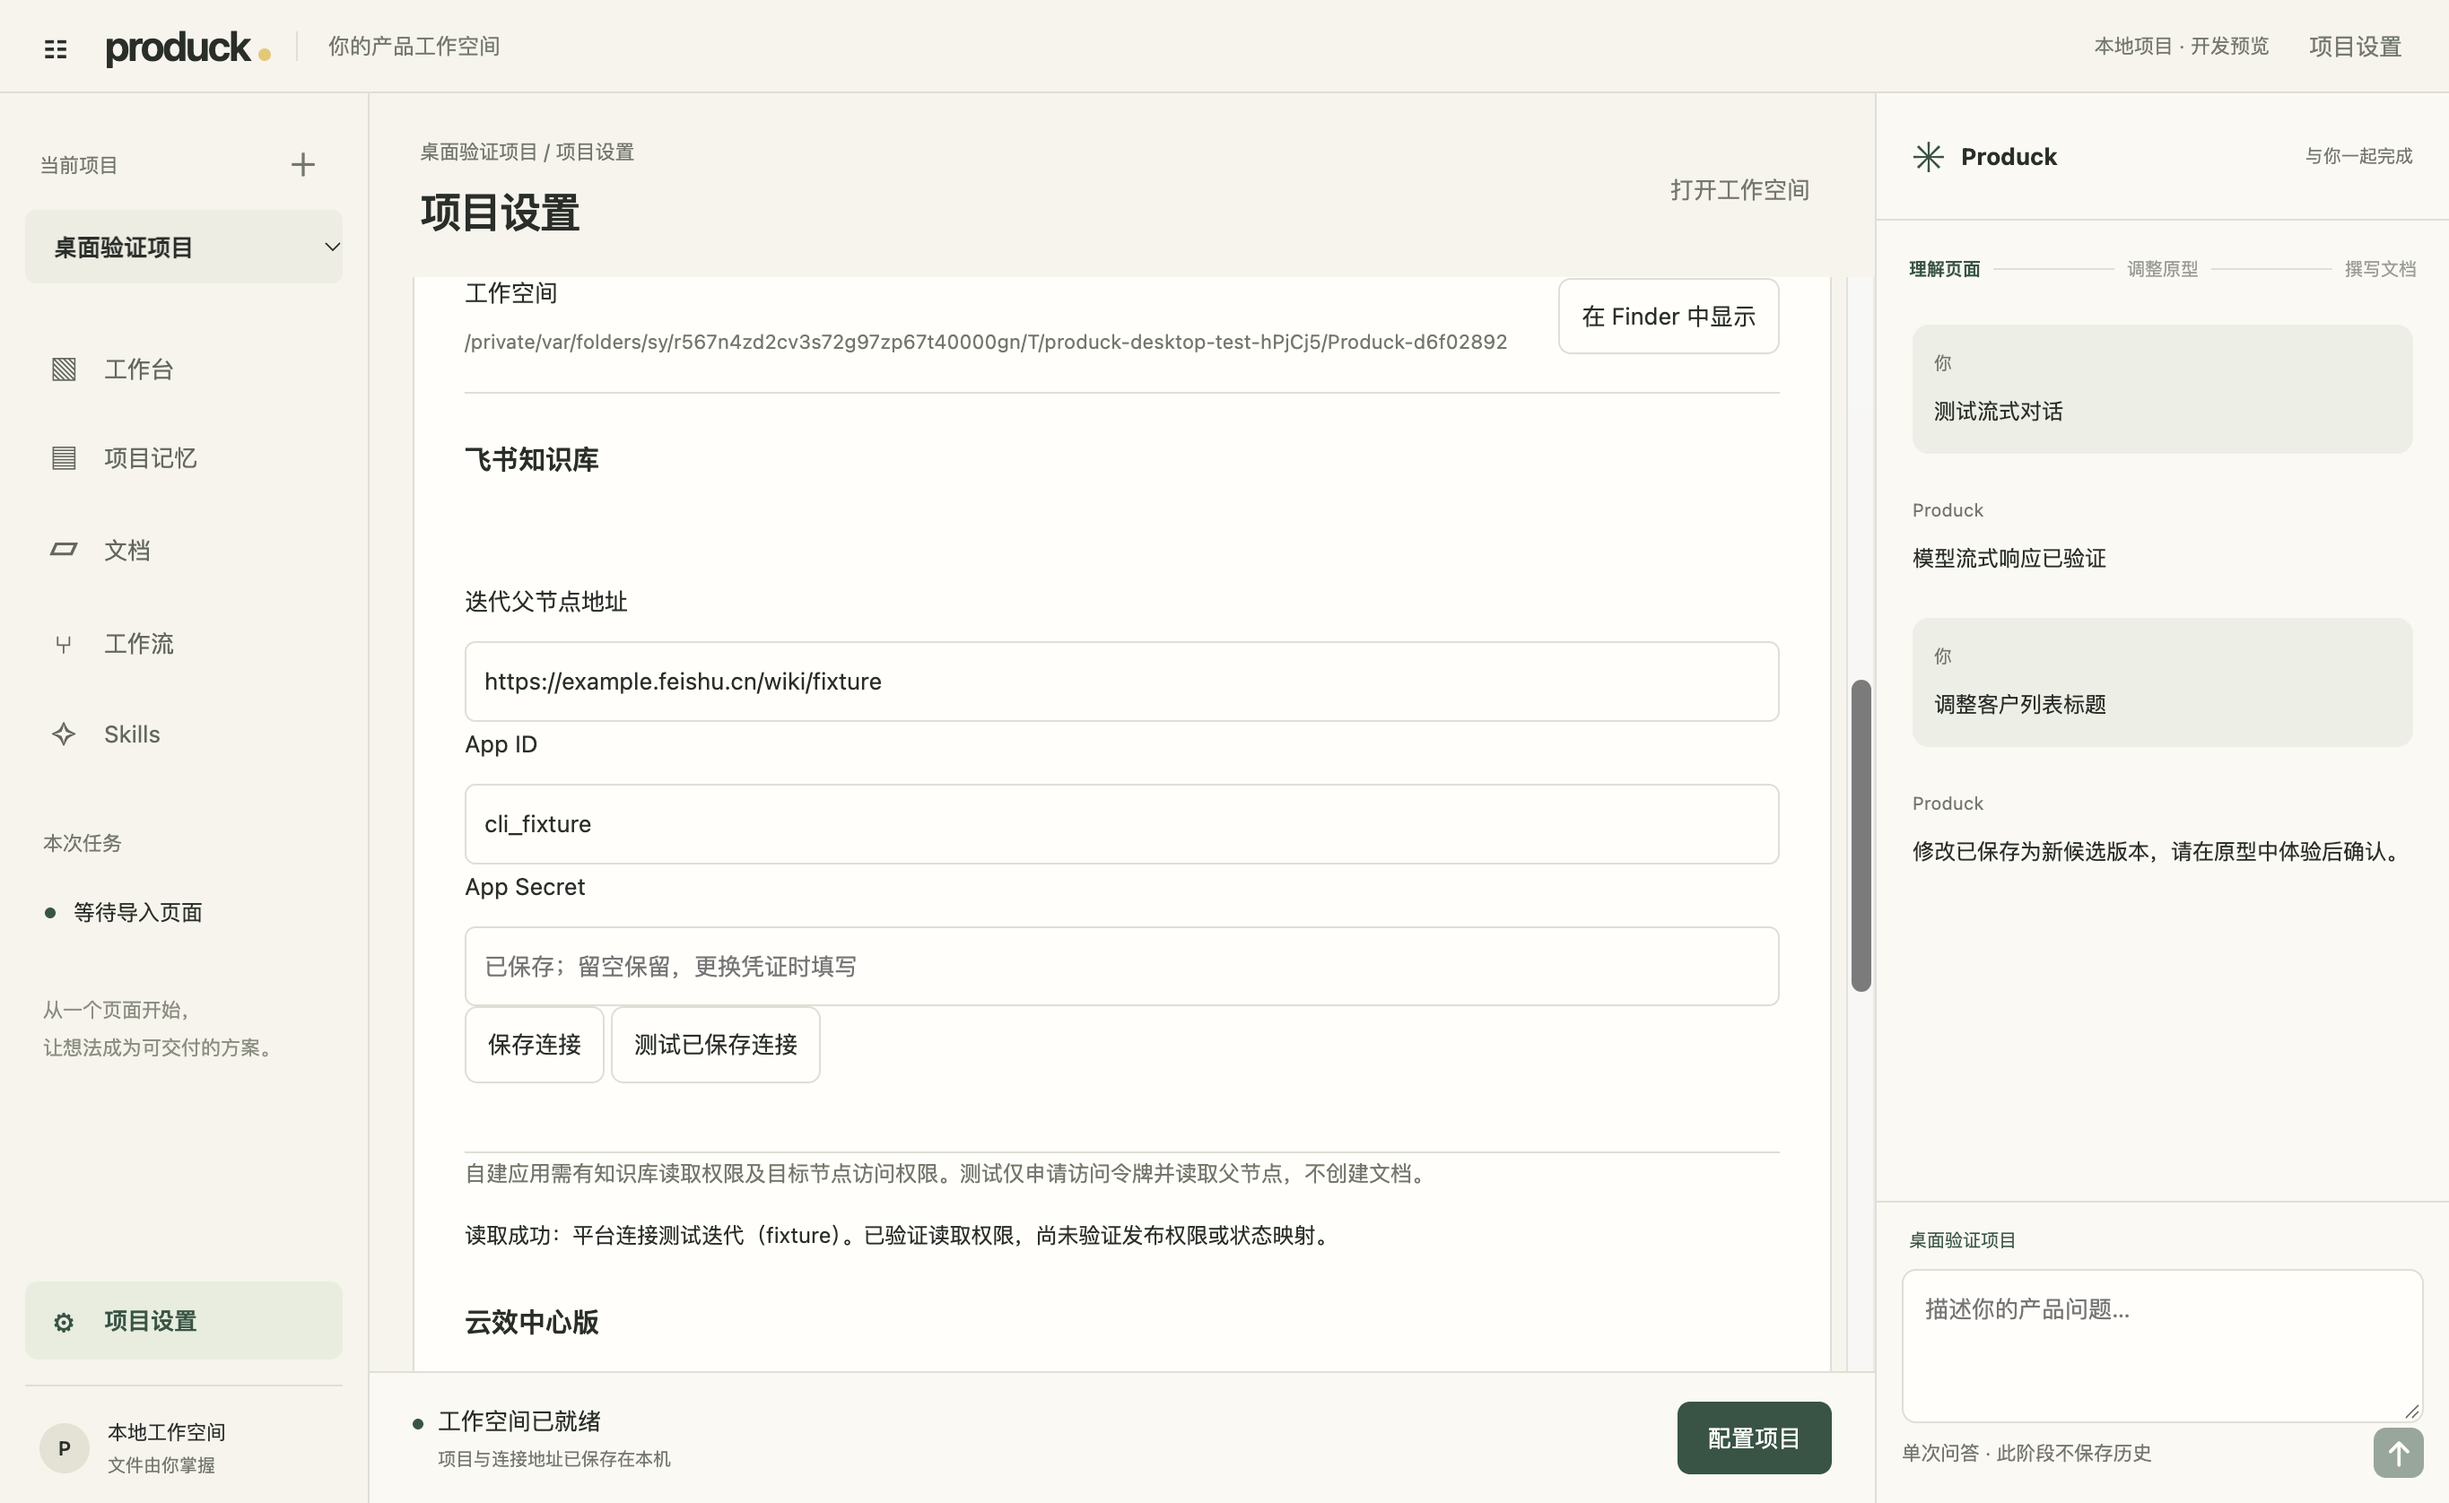
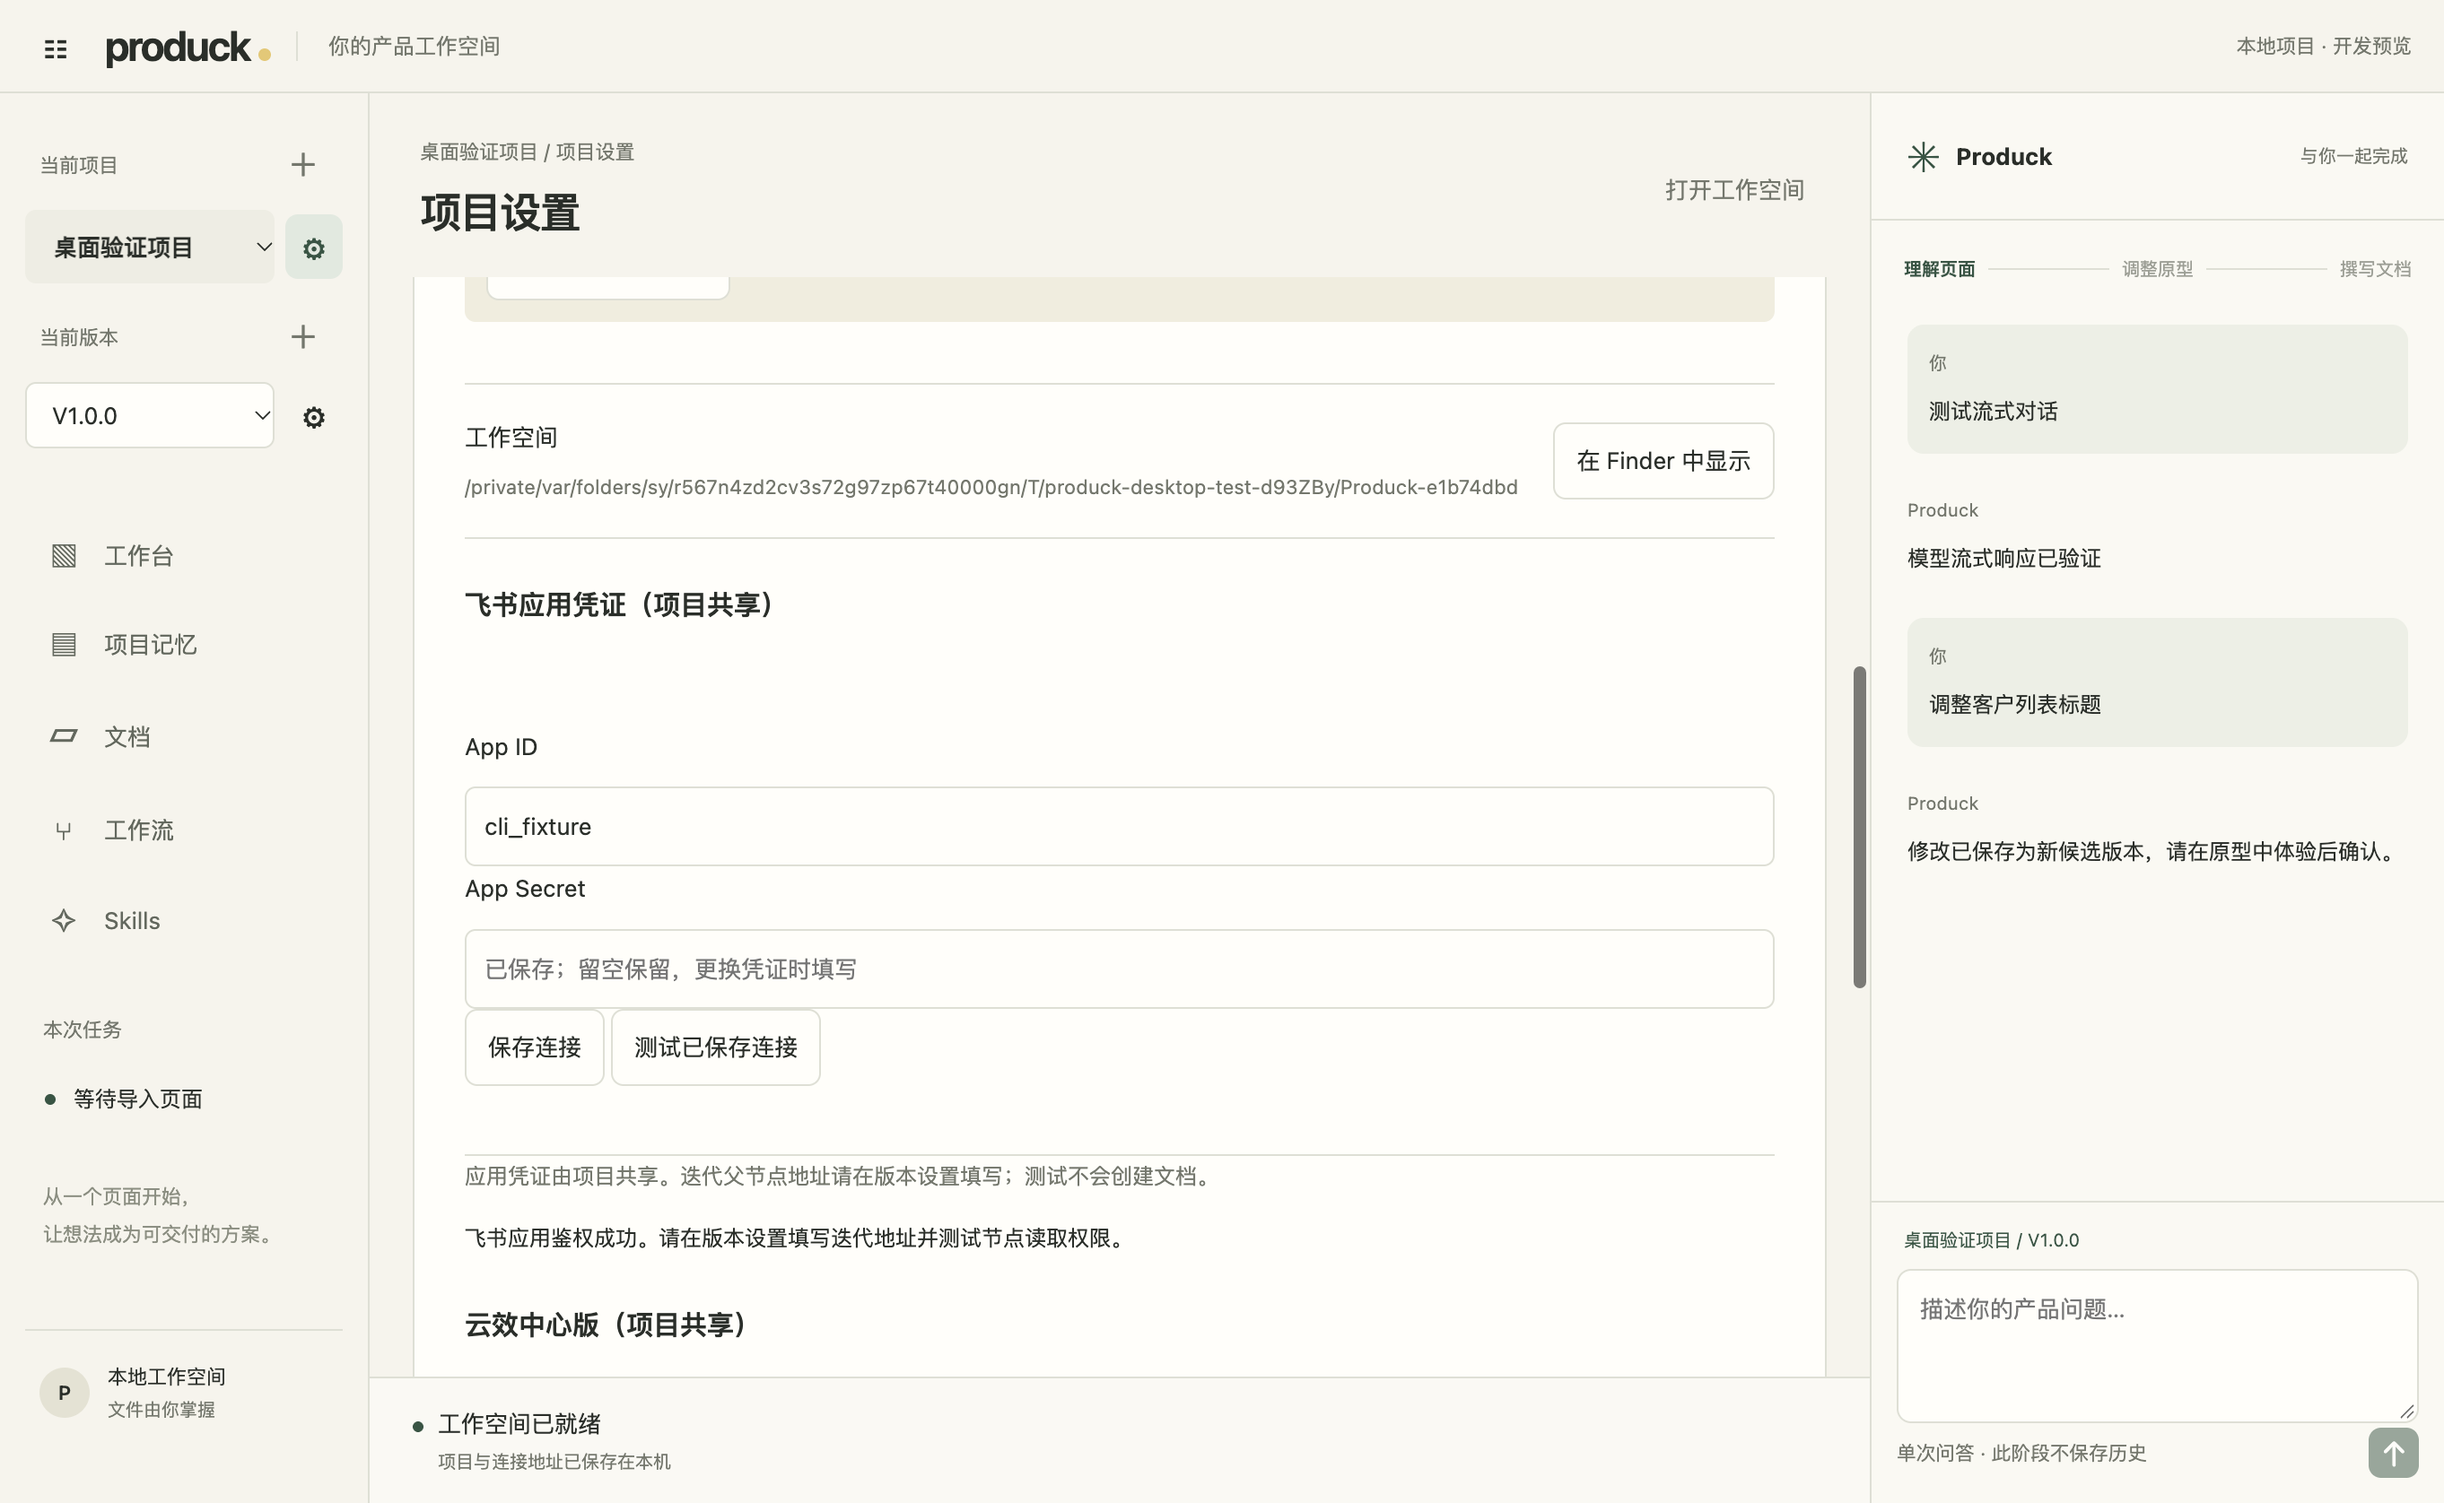
fix: place scoped settings beside project and release selectors

diff --git a/src/ui/App.tsx b/src/ui/App.tsx
@@ -133,13 +133,6 @@ export function App() {
         </strong>
         <span className="title-path">你的产品工作空间</span>
         <span className="demo-badge">本地项目 · 开发预览</span>
-        <button
-          className="quiet"
-          disabled={!project}
-          onClick={() => setView("settings")}
-        >
-          项目设置
-        </button>
       </header>
       <aside className="sidebar">
         <div className="project-label">
@@ -152,20 +145,32 @@ export function App() {
             ＋
           </button>
         </div>
-        <select
-          aria-label="切换项目"
-          id="project-select"
-          value={state.activeProjectId ?? ""}
-          disabled={loading || switching || !project}
-          onChange={(e) => void select(e.target.value)}
-        >
-          {!project && <option value="">还没有项目</option>}
-          {state.projects.map((p) => (
-            <option key={p.id} value={p.id}>
-              {p.name}
-            </option>
-          ))}
-        </select>
+        <div className="scope-selector">
+          <select
+            aria-label="切换项目"
+            id="project-select"
+            value={state.activeProjectId ?? ""}
+            disabled={loading || switching || !project}
+            onChange={(e) => void select(e.target.value)}
+          >
+            {!project && <option value="">还没有项目</option>}
+            {state.projects.map((p) => (
+              <option key={p.id} value={p.id}>
+                {p.name}
+              </option>
+            ))}
+          </select>
+          <button
+            className="icon scope-settings"
+            aria-label="项目设置"
+            title="项目设置：模型、工作空间、飞书凭证与云效"
+            aria-pressed={view === "settings"}
+            disabled={!project || switching}
+            onClick={() => setView("settings")}
+          >
+            ⚙
+          </button>
+        </div>
         {project && (
           <>
             <div className="project-label">
@@ -178,26 +183,31 @@ export function App() {
                 ＋
               </button>
             </div>
-            <select
-              aria-label="切换版本"
-              value={release?.id ?? ""}
-              disabled={switching}
-              onChange={(e) => void selectRelease(e.target.value)}
-            >
-              {!release && <option value="">请创建版本</option>}
-              {state.releases.map((r) => (
-                <option key={r.id} value={r.id}>
-                  {r.name}
-                </option>
-              ))}
-            </select>
-            <button
-              className="nav"
-              disabled={!release}
-              onClick={() => setView("release-settings")}
-            >
-              版本设置
-            </button>
+            <div className="scope-selector">
+              <select
+                aria-label="切换版本"
+                value={release?.id ?? ""}
+                disabled={switching}
+                onChange={(e) => void selectRelease(e.target.value)}
+              >
+                {!release && <option value="">请创建版本</option>}
+                {state.releases.map((r) => (
+                  <option key={r.id} value={r.id}>
+                    {r.name}
+                  </option>
+                ))}
+              </select>
+              <button
+                className="icon scope-settings"
+                aria-label="版本设置"
+                title="版本设置：版本名称、飞书迭代地址与原型起点"
+                aria-pressed={view === "release-settings"}
+                disabled={!release || switching}
+                onClick={() => setView("release-settings")}
+              >
+                ⚙
+              </button>
+            </div>
           </>
         )}
         <nav>
@@ -222,12 +232,6 @@ export function App() {
           <br />
           让想法成为可交付的方案。
         </div>
-        <button
-          className={`nav bottom ${view === "settings" ? "active" : ""}`}
-          onClick={() => setView("settings")}
-        >
-          <span>⚙</span>项目设置
-        </button>
         <div className="profile">
           <span className="avatar">P</span>
           <div>
@@ -239,7 +243,8 @@ export function App() {
         <section className="work-heading">
           <div>
             <div className="breadcrumb">
-              {project?.name ?? "Produck"} / {release?.name ?? "尚无版本"} /{" "}
+              {project?.name ?? "Produck"} /{" "}
+              {view !== "settings" && `${release?.name ?? "尚无版本"} / `}
               {view === "workbench" ? "工作台" : title}
             </div>
             <h1>{title}</h1>
@@ -333,12 +338,11 @@ export function App() {
                 : "选择一个文件夹，开始新的项目"}
             </small>
           </div>
-          <button
-            className="primary"
-            onClick={() => (project ? setView("settings") : setCreating(true))}
-          >
-            {project ? "配置项目" : "创建项目"}
-          </button>
+          {!project && (
+            <button className="primary" onClick={() => setCreating(true)}>
+              创建项目
+            </button>
+          )}
         </footer>
       </main>
       <AgentPanel

diff --git a/src/ui/components/ReleaseSettings.tsx b/src/ui/components/ReleaseSettings.tsx
@@ -51,7 +51,7 @@ export function ReleaseSettings({
   }
   return (
     <article className="paper release-settings">
-      <h2>版本设置</h2>
+      <h2>{release.name} · 版本设置</h2>
       <p className="muted">
         原型、文档、审批与交付记录归属于此版本。模型、工作空间与平台凭证沿用项目配置。
       </p>
@@ -76,7 +76,7 @@ export function ReleaseSettings({
           />
         </label>
         <label>
-          飞书迭代父节点地址
+          飞书迭代地址（当前版本）
           <input
             aria-label="飞书迭代父节点地址"
             type="url"

diff --git a/src/ui/components/ProjectSettings.tsx b/src/ui/components/ProjectSettings.tsx
@@ -7,7 +7,10 @@ export function ProjectSettings({ project }: { project: Project }) {
   const [error, setError] = useState("");
   return (
     <article className="paper">
-      <h2>{project.name}</h2>
+      <h2>{project.name} · 项目设置</h2>
+      <p className="muted">
+        以下配置由本项目的所有版本共享。飞书迭代地址请点击版本右侧的齿轮设置。
+      </p>
       <ModelSettings projectId={project.id} />
       <div className="info-row">
         <div>

diff --git a/src/ui/shell.css b/src/ui/shell.css
@@ -1084,3 +1084,25 @@ dialog::backdrop {
     grid-template-columns: minmax(0, 1fr);
   }
 }
+
+.scope-selector {
+  display: flex;
+  align-items: center;
+  gap: 6px;
+  min-width: 0;
+  margin-bottom: 12px;
+}
+.scope-selector select {
+  flex: 1;
+  min-width: 0;
+  width: 100%;
+}
+.scope-settings {
+  flex: 0 0 32px;
+  height: 36px;
+  font-size: 20px;
+}
+.scope-settings[aria-pressed="true"] {
+  background: #e1e9df;
+  color: var(--green);
+}

diff --git a/src/ui/components/PlatformSettings.tsx b/src/ui/components/PlatformSettings.tsx
@@ -80,7 +80,11 @@ export function PlatformSettings({
   }
   return (
     <section>
-      <h3>{provider === "feishu" ? "飞书知识库" : "云效中心版"}</h3>
+      <h3>
+        {provider === "feishu"
+          ? "飞书应用凭证（项目共享）"
+          : "云效中心版（项目共享）"}
+      </h3>
       {loaded && (
         <form
           className="connection-form"

diff --git a/README.md b/README.md
@@ -24,9 +24,9 @@
 
 ## 项目与产品版本
 
-先创建项目、配置模型，再点击左侧“当前版本”旁的 ＋ 创建产品版本（如 V1.0.0）。在“版本设置”填写本次迭代的飞书知识库父节点地址，然后在此版本中制作原型和撰写 PRD。
+先创建项目、配置模型，再点击左侧“当前版本”旁的 ＋ 创建产品版本（如 V1.0.0）。点击版本右侧齿轮，在“版本设置”填写本次迭代的飞书知识库父节点地址，然后在此版本中制作原型和撰写 PRD。
 
-项目共享模型、工作空间、飞书应用凭证、云效项目连接、资料记忆与技能；版本独立保存原型、截图、文档、审批、任务与交付记录。“版本设置”可复制同项目旧原型为未批准候选，需重新检查并通过。切换版本不改变已启动任务的归属。
+项目右侧齿轮打开项目设置，版本右侧齿轮打开版本设置。项目共享模型、工作空间、飞书应用凭证、云效项目连接、资料记忆与技能；版本独立保存原型、截图、文档、审批、任务与交付记录。“版本设置”可复制同项目旧原型为未批准候选，需重新检查并通过。切换版本不改变已启动任务的归属。
 
 升级时旧项目成果自动归入“默认版本”，原文件路径、批准和收据保持不变；旧飞书迭代地址只归入该默认版本。新版本须独立填写迭代地址。数据库升级前自动备份，旧版应用不能打开升级后的数据库。详见 [版本隔离验证](docs/verification/project-releases.md)。
 
@@ -89,7 +89,7 @@ python3 tests/prototype_smoke.py
 npm run package:mac
 ```
 
-输出 `release/Produck-0.1.13-arm64-test.dmg`，包含 Electron、编译后的钥匙串程序与应用资源。目标最低系统为 macOS 13，当前只在 macOS 26.3 arm64 上构建和检查；尚未在最低系统或无开发工具的机器完成验收。
+输出 `release/Produck-0.1.14-arm64-test.dmg`，包含 Electron、编译后的钥匙串程序与应用资源。目标最低系统为 macOS 13，当前只在 macOS 26.3 arm64 上构建和检查；尚未在最低系统或无开发工具的机器完成验收。
 
 包使用临时签名，未完成 Developer ID 签名和公证，不用于公开分发。安装包未提交 Git；第三方运行组件许可证随包保存。打包验证不代表真实模型与平台集成已通过。
 

diff --git a/openspec/changes/produck-mvp/tasks.md b/openspec/changes/produck-mvp/tasks.md
@@ -107,3 +107,5 @@
 - [x] 9.4 验证迁移、跨版本隔离及配置继承，更新说明、构建并推送。
 
 实施记录（2026-11-19）：9.1–9.4 完成项目下产品版本、v3 默认版本迁移、版本设置与独立飞书目标、版本原型/文档/执行收据隔离、同项目原型复制。87 项测试中 86 通过、1 原生沙箱专项默认跳过；桌面完整模拟流程及 DMG 提取副本通过，1937 个运行文件哈希不变。测试包 0.1.13；真实平台验收仍待配置，原文合并继续暂缓。
+
+实施记录（2026-11-23）：项目/版本选择器右侧分别提供齿轮入口，移除“配置项目”及重复设置按钮。项目设置明确共享范围，版本设置仅显示版本内容；项目设置面包屑不再显示当前版本。

diff --git a/docs/verification/release-readiness.md b/docs/verification/release-readiness.md
@@ -1,6 +1,6 @@
 # 首版支持范围与待验收清单
 
-截至 2026-11-19，当前测试包 0.1.13，OpenSpec 45/51。以下是当前交付范围，不将历史阶段记录视作最新能力清单。
+截至 2026-11-23，当前测试包 0.1.14，OpenSpec 45/51。以下是当前交付范围，不将历史阶段记录视作最新能力清单。
 
 ## 可使用范围
 
